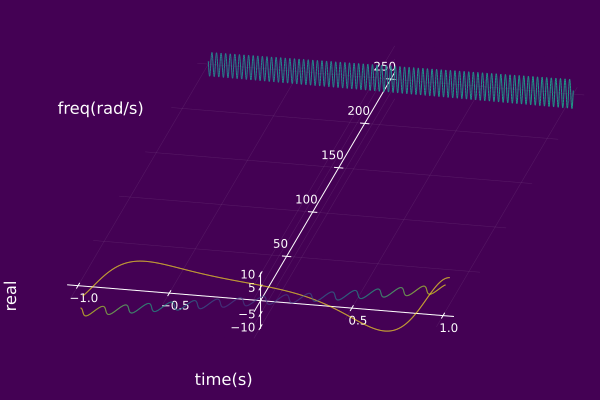
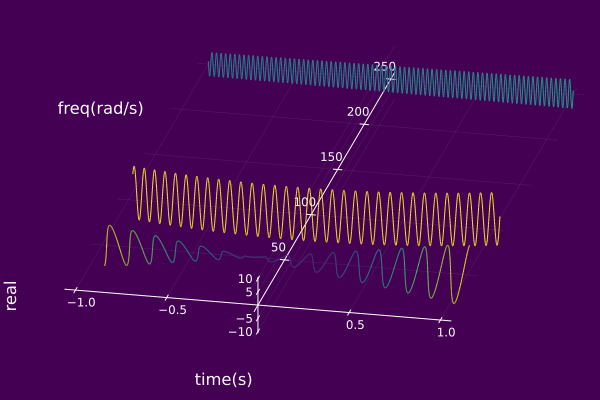
update model plots

diff --git a/docs/src/basicModels/AMFM.md b/docs/src/basicModels/AMFM.md
@@ -105,9 +105,9 @@ For another choice of parameters of the component set, we have the following Arg
 
 ```julia
 using ISA, Plots
-𝐶₀ = AMFMtriplet(t->10,t->10t^2+2t+1,1.0)
+𝐶₀ = AMFMtriplet(t->10,t->10t^2+2t+100,1.0)
 𝐶₁ = AMFMtriplet(t->5exp(0.1t),t->250,0.0)
-𝐶₂ = AMFMtriplet(t->10t,t->5cos(50t),0.0)
+𝐶₂ = AMFMtriplet(t->10t,t->5cos(50t)+50,0.0)
 𝑆 = compSet([𝐶₀,𝐶₁,𝐶₂])
 z = AMFMmodel(𝑆)
 plot(z; timeaxis=-1.0:0.001:1.0)
@@ -116,9 +116,9 @@ plot(z; timeaxis=-1.0:0.001:1.0)
 
 ```julia
 using ISA, Plots
-𝐶₀ = AMFMtriplet(t->10,t->10t^2+2t+1,1.0)
+𝐶₀ = AMFMtriplet(t->10,t->10t^2+2t+100,1.0)
 𝐶₁ = AMFMtriplet(t->5exp(0.1t),t->250,0.0)
-𝐶₂ = AMFMtriplet(t->10t,t->5cos(50t),0.0)
+𝐶₂ = AMFMtriplet(t->10t,t->5cos(50t)+50,0.0)
 𝑆 = compSet([𝐶₀,𝐶₁,𝐶₂])
 z = AMFMmodel(𝑆)
 plot(𝑆; timeaxis=-1.0:0.001:1.0)
@@ -127,9 +127,9 @@ plot(𝑆; timeaxis=-1.0:0.001:1.0)
 
 ```julia
 using ISA, Plots
-𝐶₀ = AMFMtriplet(t->10,t->10t^2+2t+1,1.0)
+𝐶₀ = AMFMtriplet(t->10,t->10t^2+2t+100,1.0)
 𝐶₁ = AMFMtriplet(t->5exp(0.1t),t->250,0.0)
-𝐶₂ = AMFMtriplet(t->10t,t->5cos(50t),0.0)
+𝐶₂ = AMFMtriplet(t->10t,t->5cos(50t)+50,0.0)
 𝑆 = compSet([𝐶₀,𝐶₁,𝐶₂])
 z = AMFMmodel(𝑆)
 plot(𝑆, timeaxis=-1.0:0.001:1.0, view="TF",

diff --git a/docs/src/basicModels/Fourier.md b/docs/src/basicModels/Fourier.md
@@ -129,7 +129,8 @@ aₖ(k) = ifelse( k==0, 1/2, sin(k*π/2)/(k*π) )
 kInds = -10:10
 𝑆 = fourierSeries(T, aₖ, kInds)
 z = AMFMmodel(𝑆)
-plot(𝑆, timeaxis=-1.0:0.001:1.0, view="TF", left_margin=10Plots.mm)
+plot(𝑆, timeaxis=-1.0:0.001:1.0, view="TF",
+     left_margin=15Plots.mm, margin=5Plots.mm)
 ```
 ![](https://raw.githubusercontent.com/NMSU-ISA/ISA/master/docs/src/assets/IS_exFourier6.png)
 
@@ -199,6 +200,7 @@ kInds = -150:150
 𝑆 = fourierSeries(T, aₖ, kInds)
 z = AMFMmodel(𝑆)
 plot(𝑆, timeaxis=-1.0:0.001:1.0)
-plot(𝑆, timeaxis=-1.0:0.001:1.0, view="TF", left_margin=10Plots.mm)
+plot(𝑆, timeaxis=-1.0:0.001:1.0, view="TF",
+     left_margin=15Plots.mm, margin=5Plots.mm)
 ```
 ![](https://raw.githubusercontent.com/NMSU-ISA/ISA/master/docs/src/assets/IS_exFourier9.png)
